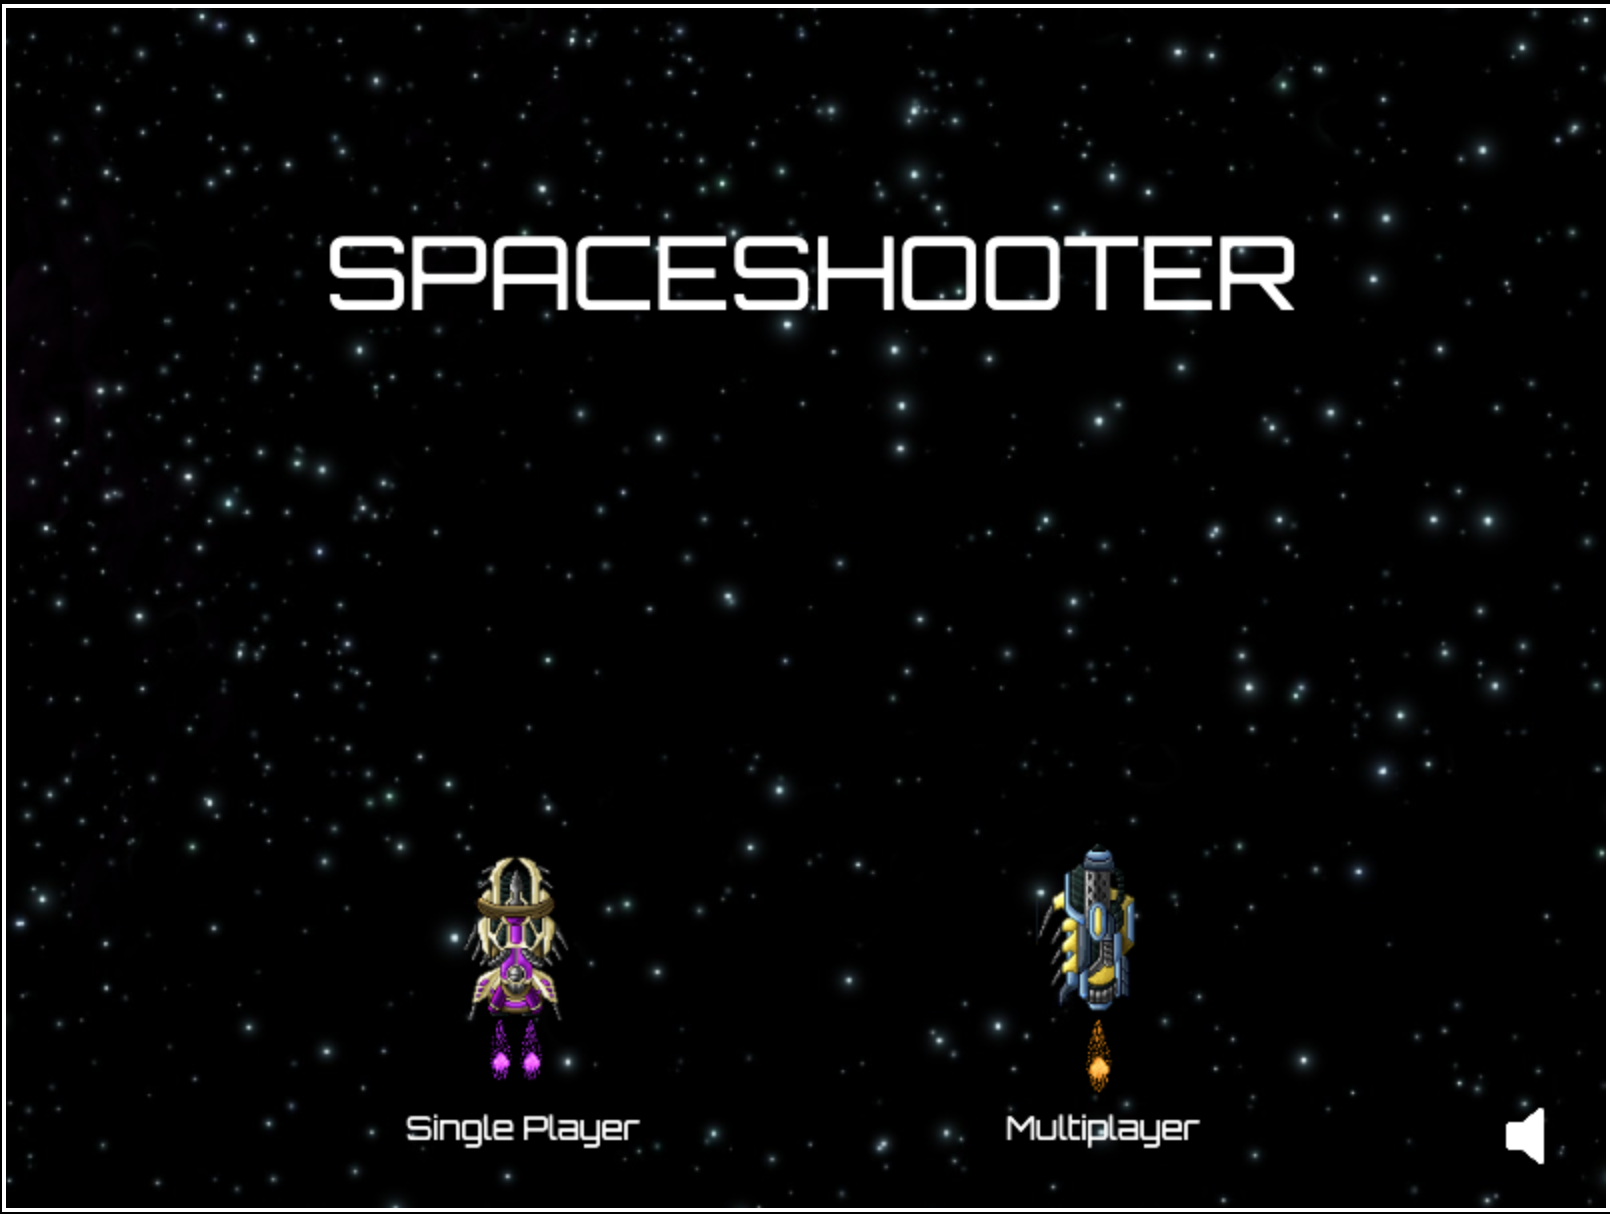
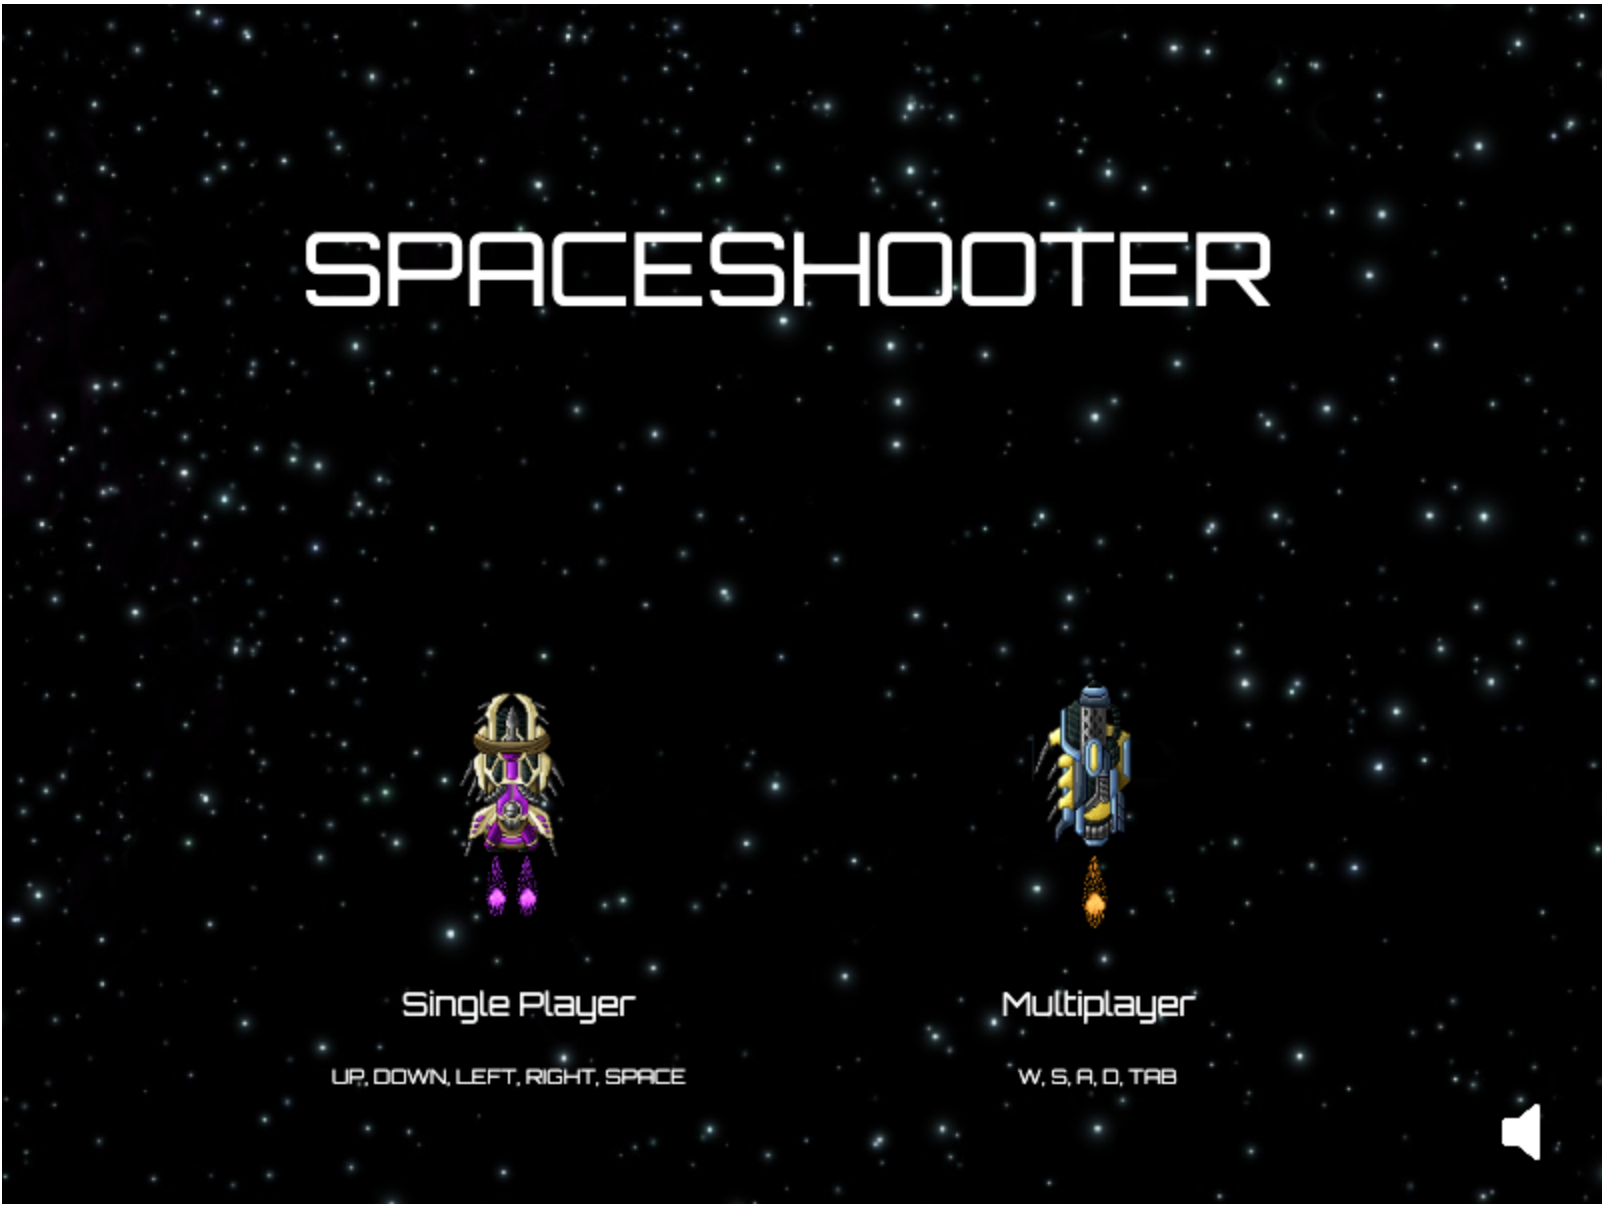
Bugfixes & Minor changes

diff --git a/src/StartScreen.js b/src/StartScreen.js
@@ -78,6 +78,11 @@ class StartScreen extends Phaser.Scene {
         })
       )
       .setScale(0.7);
+    this.add.text(165, 530, "UP, DOWN, LEFT, RIGHT, SPACE", {
+      fill: "#FFFFFF",
+      fontSize: "10px",
+      fontFamily: "Orbitron",
+    });
 
     SinglePlayer.setInteractive().on("pointerdown", () => {
       select.play();
@@ -87,17 +92,22 @@ class StartScreen extends Phaser.Scene {
 
     var MultiPlayer = this.add
       .sprite(
-        570,
+        540,
         400,
         "multiPlayer",
         [1],
-        this.add.text(530, 490, "Multiplayer", {
+        this.add.text(500, 490, "Multiplayer", {
           fill: "#FFFFFF",
           fontSize: "16px",
           fontFamily: "Orbitron",
         })
       )
       .setScale(0.8);
+    this.add.text(508, 530, "W, S, A, D, TAB", {
+      fill: "#FFFFFF",
+      fontSize: "10px",
+      fontFamily: "Orbitron",
+    });
     MultiPlayer.setInteractive().on("pointerdown", () => {
       this.scene.stop("StartScreen");
       this.scene.stop("PlayGame");
